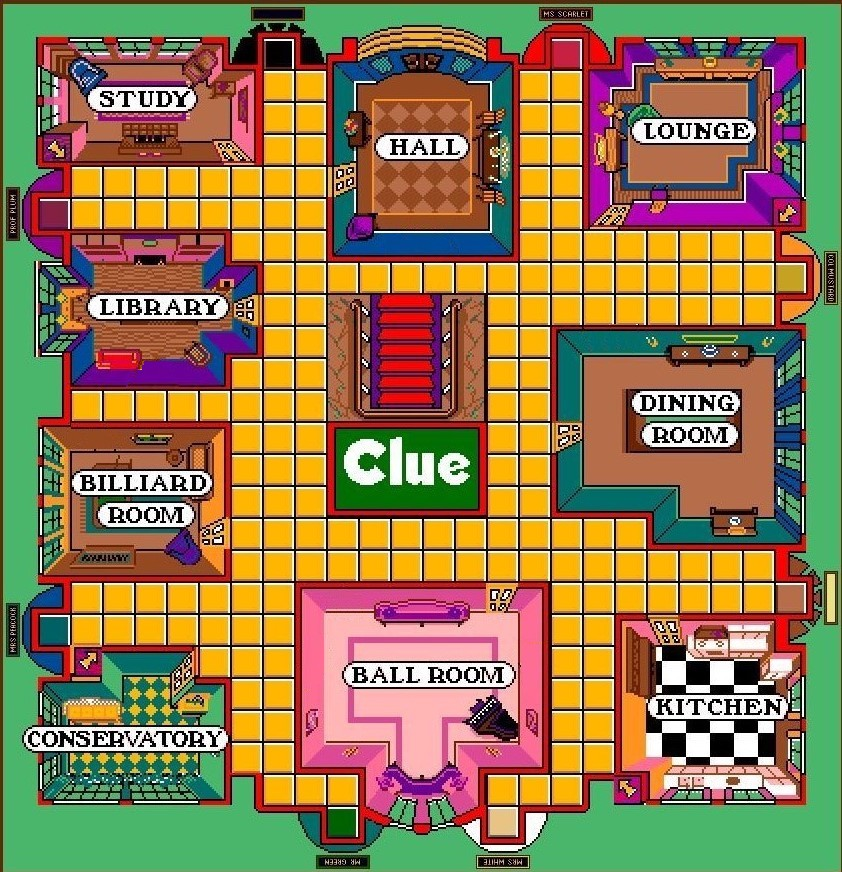
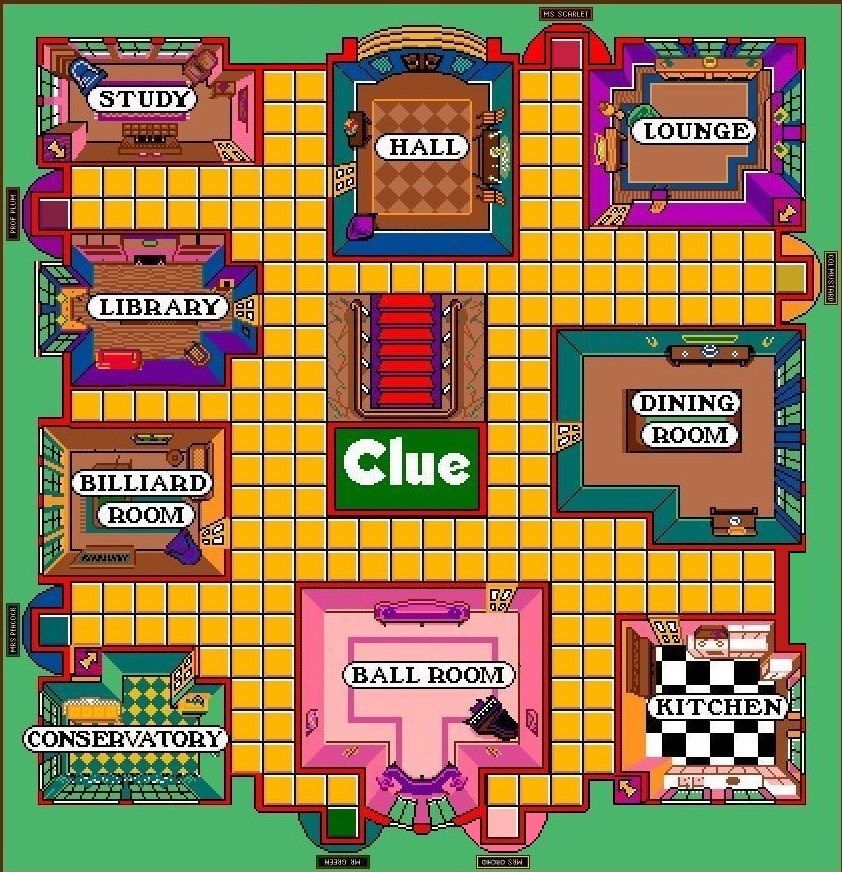
Moved the Color enum on a separate class. Fixed the colors of the gameboard.

diff --git a/src/Clue/MainMenu.java b/src/Clue/MainMenu.java
@@ -3,7 +3,6 @@ package Clue;
 import java.awt.*;
 import java.awt.event.*;
 import java.util.Arrays;
-import java.util.Iterator;
 
 import javax.swing.*;
 
@@ -42,7 +41,7 @@ public class MainMenu extends JPanel {
 
 		JButton startGameBTN = new JButton("Start Game");
 
-		JLabel enterText = new JLabel("Entre la cantidad de jugadores (1-6): ");
+		JLabel enterText = new JLabel("Entre la cantidad de jugadores (2-6): ");
 
 		JTextField text = new JTextField(5);
 		
@@ -123,22 +122,22 @@ public class MainMenu extends JPanel {
 	private void addColorButtons() {
 
 		JButton greenColor = new JButton("Green");
-		greenColor.setBackground(new Color(0, 125, 0));
+		greenColor.setBackground(Colors.Green.getColor());
 
 		JButton plumColor = new JButton("Plum");
-		plumColor.setBackground(new Color(142, 69, 133));
+		plumColor.setBackground(Colors.Plum.getColor());
 
 		JButton scarlettColor = new JButton("Scarlett");
-		scarlettColor.setBackground(new Color(255, 36, 0));
+		scarlettColor.setBackground(Colors.Scarlett.getColor());
 
 		JButton orchidColor = new JButton("Orchid");
-		orchidColor.setBackground(new Color(218, 112, 214));
+		orchidColor.setBackground(Colors.Orchid.getColor());
 
 		JButton peacockColor = new JButton("Peacock");
-		peacockColor.setBackground(new Color(51, 161, 201));
+		peacockColor.setBackground(Colors.Peacock.getColor());
 
 		JButton mustardColor = new JButton("Mustard");
-		mustardColor.setBackground(new Color(255, 204, 102));
+		mustardColor.setBackground(Colors.Mustard.getColor());
 
 
 		greenColor.addActionListener(new ActionListener() {
@@ -155,13 +154,6 @@ public class MainMenu extends JPanel {
 
 			public void actionPerformed(ActionEvent e) {
 				Client.colorIdx = Arrays.binarySearch(Client.availableColors, "Plum");
-				greenColor.setVisible(false);
-				plumColor.setVisible(false);
-				orchidColor.setVisible(false);
-				mustardColor.setVisible(false);
-				greenColor.setVisible(false);
-				scarlettColor.setVisible(false);
-				peacockColor.setVisible(false);
 				frame.dispose();
 
 			}

diff --git a/src/Clue/Build.java b/src/Clue/Build.java
@@ -47,25 +47,6 @@ public class Build extends JPanel implements ActionListener {
 	// Has the string info of all of the cards on the cardDeck array.
 	public static HashMap<Integer, String> cardDeckMap = new HashMap<Integer, String>();
 
-	// Enumerator for the colors with their RGB code
-	private enum colors {
-		Scarlett("255,36,0"), Plum("142,69,133"), Orchid("218,112,214"), Green("0,125,0"), Mustard("255,204,102"),
-		Peacock("51,161,201");
-
-		private Color clr;
-
-		private colors(String rgb) {
-
-			String[] strRGB = rgb.split(",");
-
-			clr = new Color(Integer.parseInt(strRGB[0]), Integer.parseInt(strRGB[1]), Integer.parseInt(strRGB[2]));
-		}
-
-		public Color getColor() {
-			return clr;
-		}
-	}
-
 	// Constructor
 	public Build() {
 
@@ -472,22 +453,22 @@ public class Build extends JPanel implements ActionListener {
 
 				switch (Client.playerColor.get(i).trim()) {
 				case "Green":
-					g.setColor(colors.Green.getColor());
+					g.setColor(Colors.Green.getColor());
 					break;
 				case "Mustard":
-					g.setColor(colors.Mustard.getColor());
+					g.setColor(Colors.Mustard.getColor());
 					break;
 				case "Orchid":
-					g.setColor(colors.Orchid.getColor());
+					g.setColor(Colors.Orchid.getColor());
 					break;
 				case "Peacock":
-					g.setColor(colors.Peacock.getColor());
+					g.setColor(Colors.Peacock.getColor());
 					break;
 				case "Plum":
-					g.setColor(colors.Plum.getColor());
+					g.setColor(Colors.Plum.getColor());
 					break;
 				case "Scarlett":
-					g.setColor(colors.Scarlett.getColor());
+					g.setColor(Colors.Scarlett.getColor());
 					break;
 				default:
 					break;

diff --git a/src/Clue/Colors.java b/src/Clue/Colors.java
@@ -1,0 +1,22 @@
+package Clue;
+
+import java.awt.*;
+
+// Enumerator for the colors with their RGB code
+public enum Colors {
+	Scarlett("255,36,0"), Plum("109,66,148"), Orchid("214,110,210"), Green("0,125,0"), Mustard("166,127,1"),
+	Peacock("47,92,250");
+
+	private Color clr;
+
+	private Colors(String rgb) {
+
+		String[] strRGB = rgb.split(",");
+
+		clr = new Color(Integer.parseInt(strRGB[0]), Integer.parseInt(strRGB[1]), Integer.parseInt(strRGB[2]));
+	}
+
+	public Color getColor() {
+		return clr;
+	}
+}
